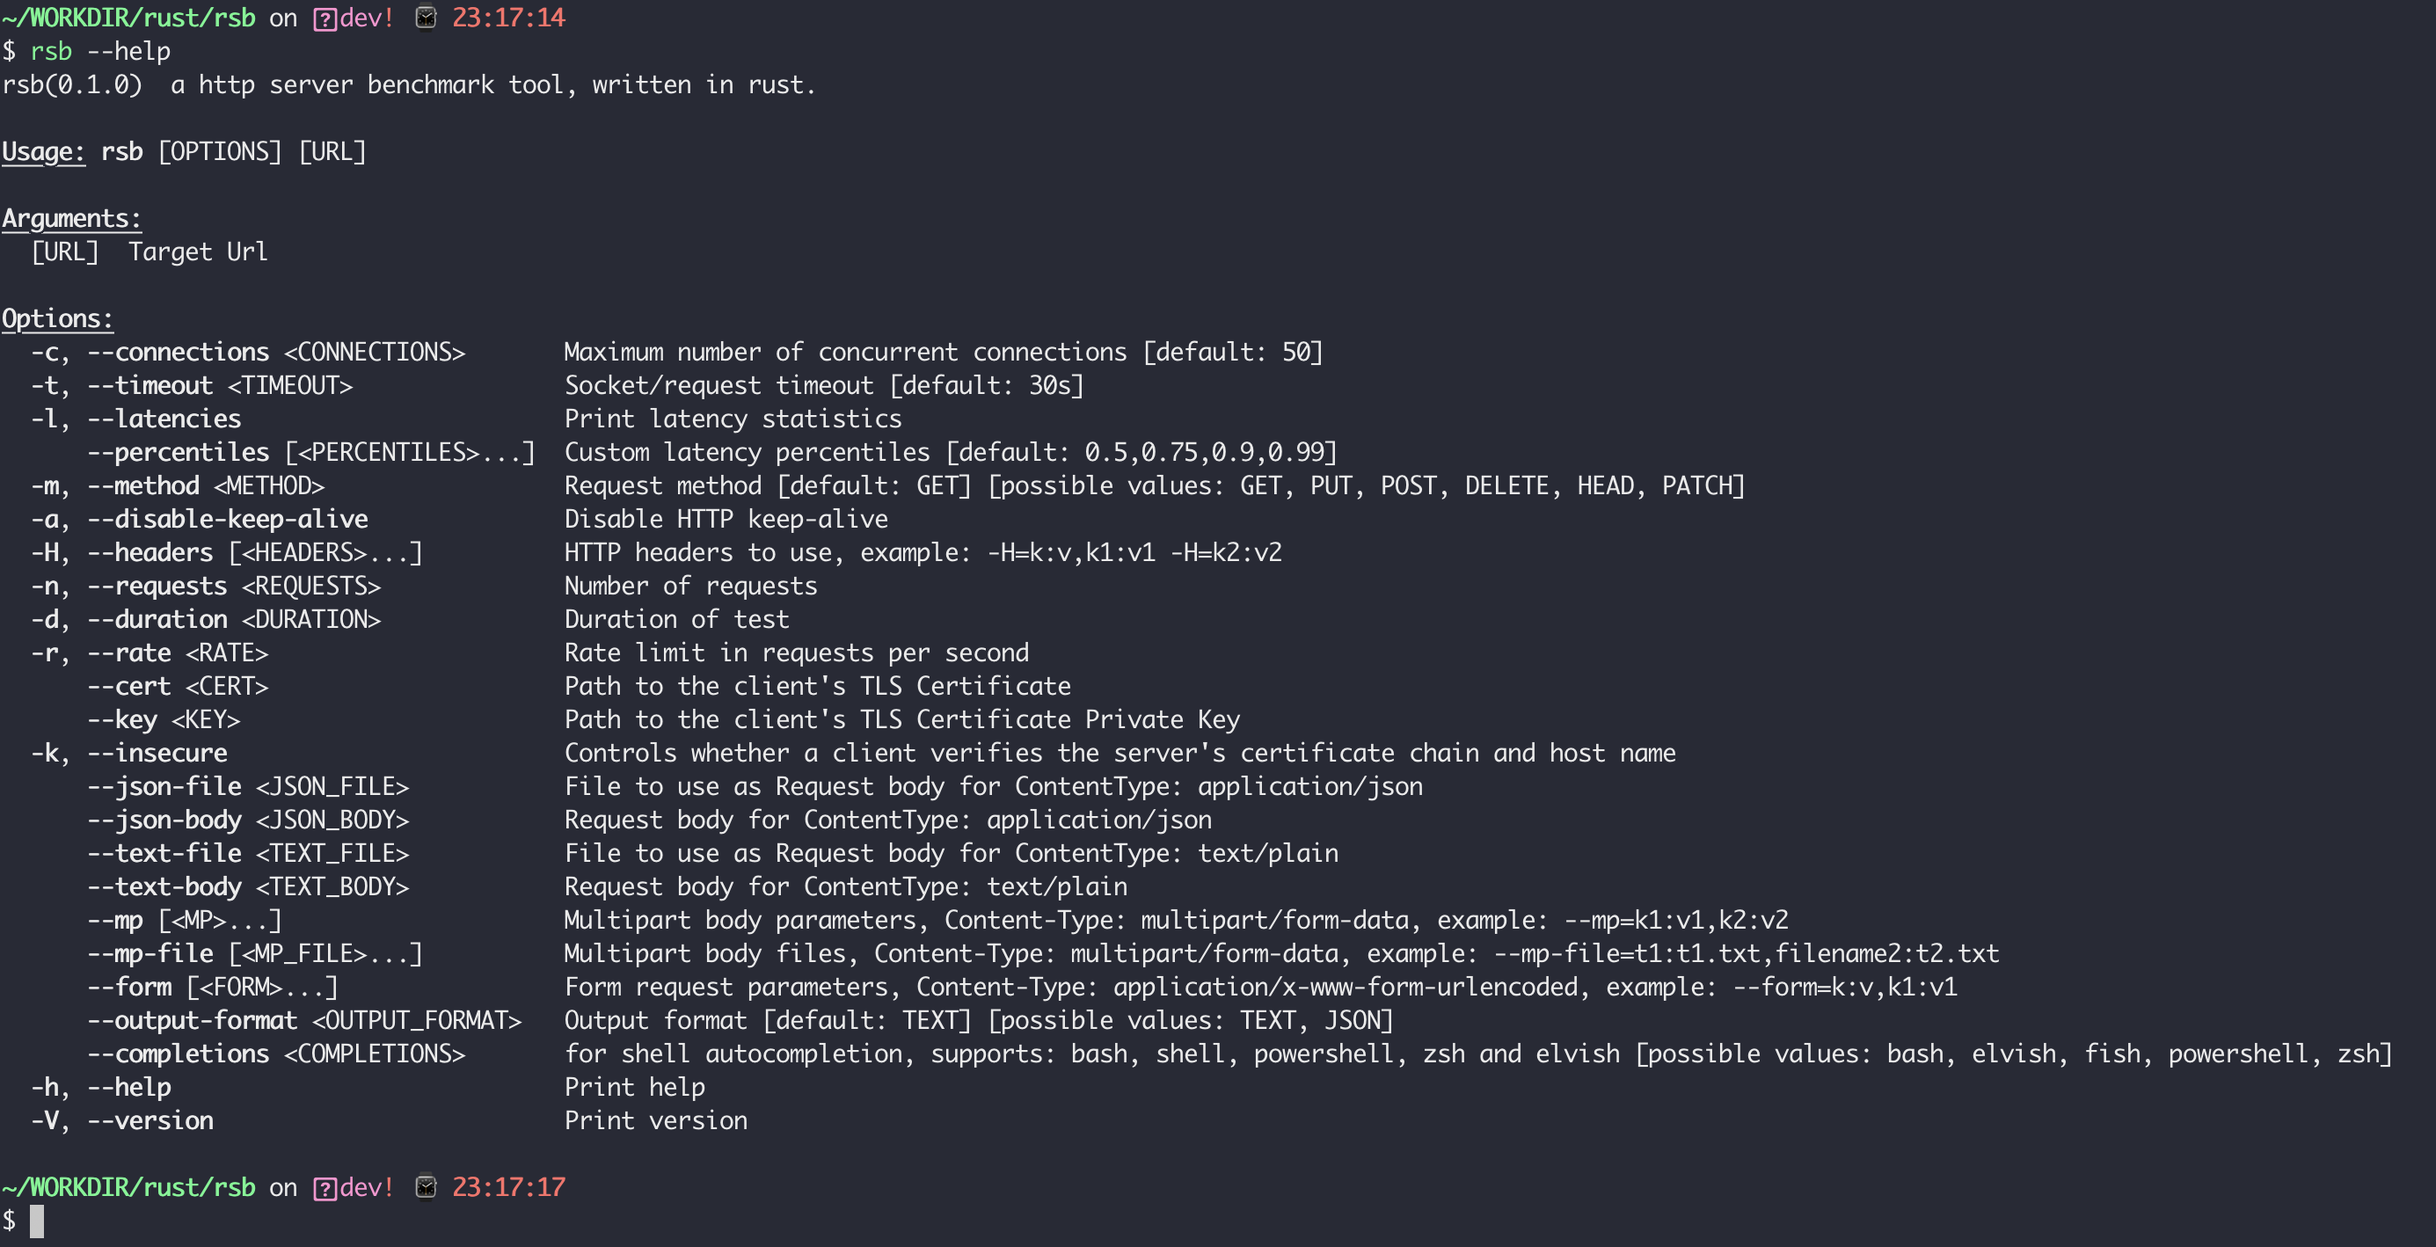
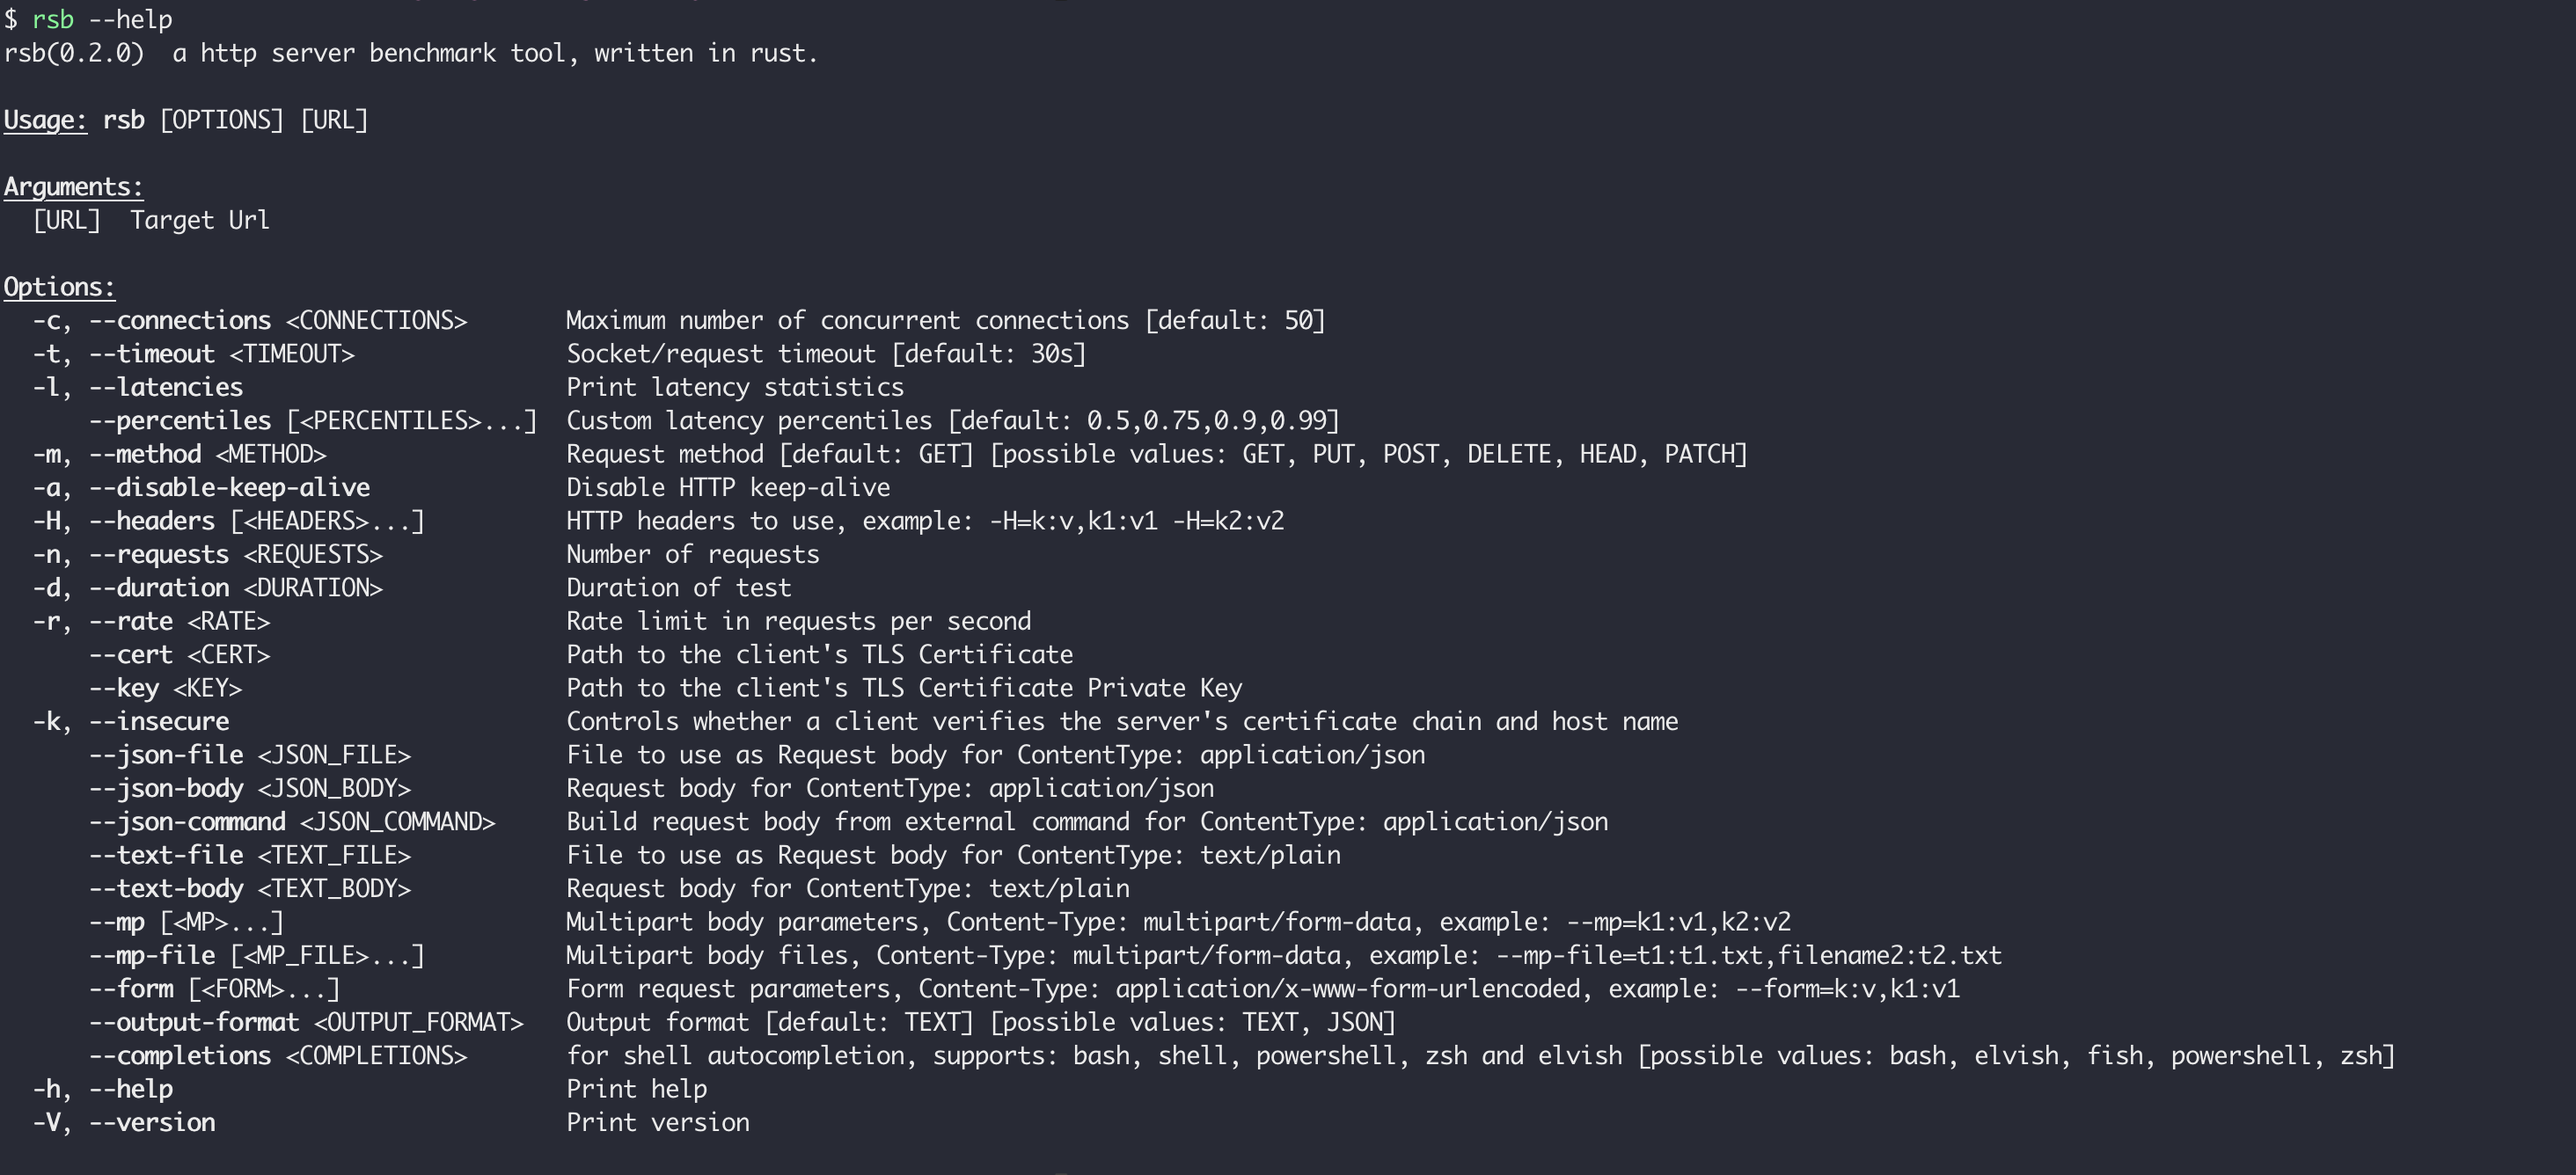
feature: generate json body from external command (#77)

Changed region(s): [[0.0, 0.0, 0.9935, 1.0], [0.3105, 0.0614, 0.3415, 0.0921]]

diff --git a/src/arg.rs b/src/arg.rs
@@ -272,7 +272,7 @@ pub struct Arg {
     #[arg(
         long,
         value_hint = ValueHint::FilePath,
-        conflicts_with_all(["mp_file", "mp", "form", "text_body", "text_file", "json_body"]),
+        conflicts_with_all(["mp_file", "mp", "form", "text_body", "text_file", "json_body", "json_command"]),
         help = "File to use as Request body for ContentType: application/json"
     )]
     pub(crate) json_file: Option<PathBuf>,
@@ -280,9 +280,16 @@ pub struct Arg {
     /// JSON request body
     #[arg(
         long,
-        conflicts_with_all(["mp_file", "mp", "form", "text_body", "text_file", "json_file"]),
+        conflicts_with_all(["mp_file", "mp", "form", "text_body", "text_file", "json_file", "json_command"]),
         help = "Request body for ContentType: application/json")]
     pub(crate) json_body: Option<String>,
+
+    /// JSON request body
+    #[arg(
+    long,
+    conflicts_with_all(["mp_file", "mp", "form", "text_body", "text_file", "json_file", "json_body"]),
+    help = "Build request body from external command for ContentType: application/json")]
+    pub(crate) json_command: Option<String>,
 
     /// File to use as text request Body
     #[arg(
@@ -520,6 +527,32 @@ mod tests {
             "--text-body",
             "--text-file",
             "--json-file",
+            "--json-command",
+        ];
+        validate_args_conflict(conflicts_params, args, cmd);
+    }
+
+    #[test]
+    fn test_json_command_conflicts_with_other_body() {
+        let cmd = Arg::command();
+        let args = vec![
+            BINARY,
+            "-n",
+            "20",
+            "--json-command",
+            "/usr/bin/command generate",
+            "xx",
+            "xx",
+            URI,
+        ];
+        let conflicts_params = vec![
+            "--mp-file",
+            "--mp",
+            "--form",
+            "--text-body",
+            "--text-file",
+            "--json-file",
+            "--json-body",
         ];
         validate_args_conflict(conflicts_params, args, cmd);
     }
@@ -536,6 +569,7 @@ mod tests {
             "--text-body",
             "--text-file",
             "--json-body",
+            "--json-command",
         ];
         validate_args_conflict(conflicts_params, args, cmd);
     }
@@ -626,6 +660,7 @@ mod tests {
             "--text-body",
             "--json-file",
             "--json-body",
+            "--json-command",
         ];
         validate_args_conflict(conflicts_params, args, cmd);
     }
@@ -683,6 +718,7 @@ mod tests {
             "--text-body",
             "--json-file",
             "--json-body",
+            "--json-command",
         ];
         validate_args_conflict(conflicts_params, args, cmd);
     }
@@ -737,6 +773,7 @@ mod tests {
             "--text-body",
             "--json-file",
             "--json-body",
+            "--json-command",
         ];
         validate_args_conflict(conflicts_params, args, cmd);
     }

diff --git a/src/request.rs b/src/request.rs
@@ -1,5 +1,7 @@
 use std::collections::HashMap;
 
+use anyhow::anyhow;
+use async_process::{Command, Stdio};
 use bytes::Bytes;
 use reqwest::{multipart, Body, Client, Request, RequestBuilder};
 use tokio::{self, fs as tfs};
@@ -63,6 +65,32 @@ async fn set_request_json_body(
         let file = tfs::File::open(json_file).await?;
         builder = builder
             .body(file)
+            .header("Content-Type", "application/json; charset=UTF-8");
+    }
+
+    if let Some(json_command) = &arg.json_command {
+        let inputs: Vec<&str> = json_command.split(" ").collect();
+        let inputs: Vec<&&str> =
+            inputs.iter().filter(|&&x| !x.is_empty()).collect();
+
+        if inputs.is_empty() {
+            anyhow::bail!(anyhow!("invalid json command"))
+        }
+
+        let mut cmd = Command::new(inputs[0]);
+        cmd.stdin(Stdio::null());
+        for arg in &inputs[1..] {
+            cmd.arg(arg);
+        }
+        let output = cmd.output().await?;
+        if !output.status.success() {
+            anyhow::bail!(anyhow!(format!(
+                "external command execute failed, exit code: {}",
+                output.status
+            )))
+        }
+        builder = builder
+            .body(output.stdout)
             .header("Content-Type", "application/json; charset=UTF-8");
     }
 

diff --git a/README.md b/README.md
@@ -3,7 +3,7 @@
 [![Build Status](https://github.com/gamelife1314/rsb/workflows/CI/badge.svg)](https://github.com/gamelife1314/rsb/actions)
 [![License MIT](https://img.shields.io/badge/liccense-MIT-green?style=flat&logo=PowerShell)](https://github.com/gamelife1314/rsb/blob/main/LICENSE)
 [![Codecov](https://codecov.io/gh/gamelife1314/rsb/branch/main/graph/badge.svg)](https://app.codecov.io/gh/gamelife1314/rsb)
-[![Crates.io](https://img.shields.io/badge/crates.io-v0.1.12-blue)](https://crates.io/crates/rsb)
+[![Crates.io](https://img.shields.io/badge/crates.io-v0.2.0-blue)](https://crates.io/crates/rsb)
 
 `rsb` is a http server benchmark tool written in rust. The development of this tool is mainly inspired 
 by the [`bombardier`](https://github.com/codesenberg/bombardier) project, and I would like to thank the author for his 
@@ -105,6 +105,9 @@ example:
     rsb -n 1 -m POST --json-body '{"version":"v0.1.0","name":"rsb"}' http://127.0.0.1:54326/post-json
     // or
     rsb -n 1 -m POST --json-file json.txt http://127.0.0.1:54326/post-json
+    // or build json body from external command, this will call rsbg program to generate request body
+    cargo run -- -c 50 -t 5s -n 5000 -l --json-command "rsbg hello world xxx 1" -m POST  http://127.0.0.1:5302/hello
+    
 
 ## FORM BODY
 

diff --git a/CHANGELOG.md b/CHANGELOG.md
@@ -1,3 +1,7 @@
+# v0.2.0 - 2023-07-30
+
+build json request body from external command.
+
 # v0.1.12 - 2023-07-30
 
 update dependency and slim docker images.
